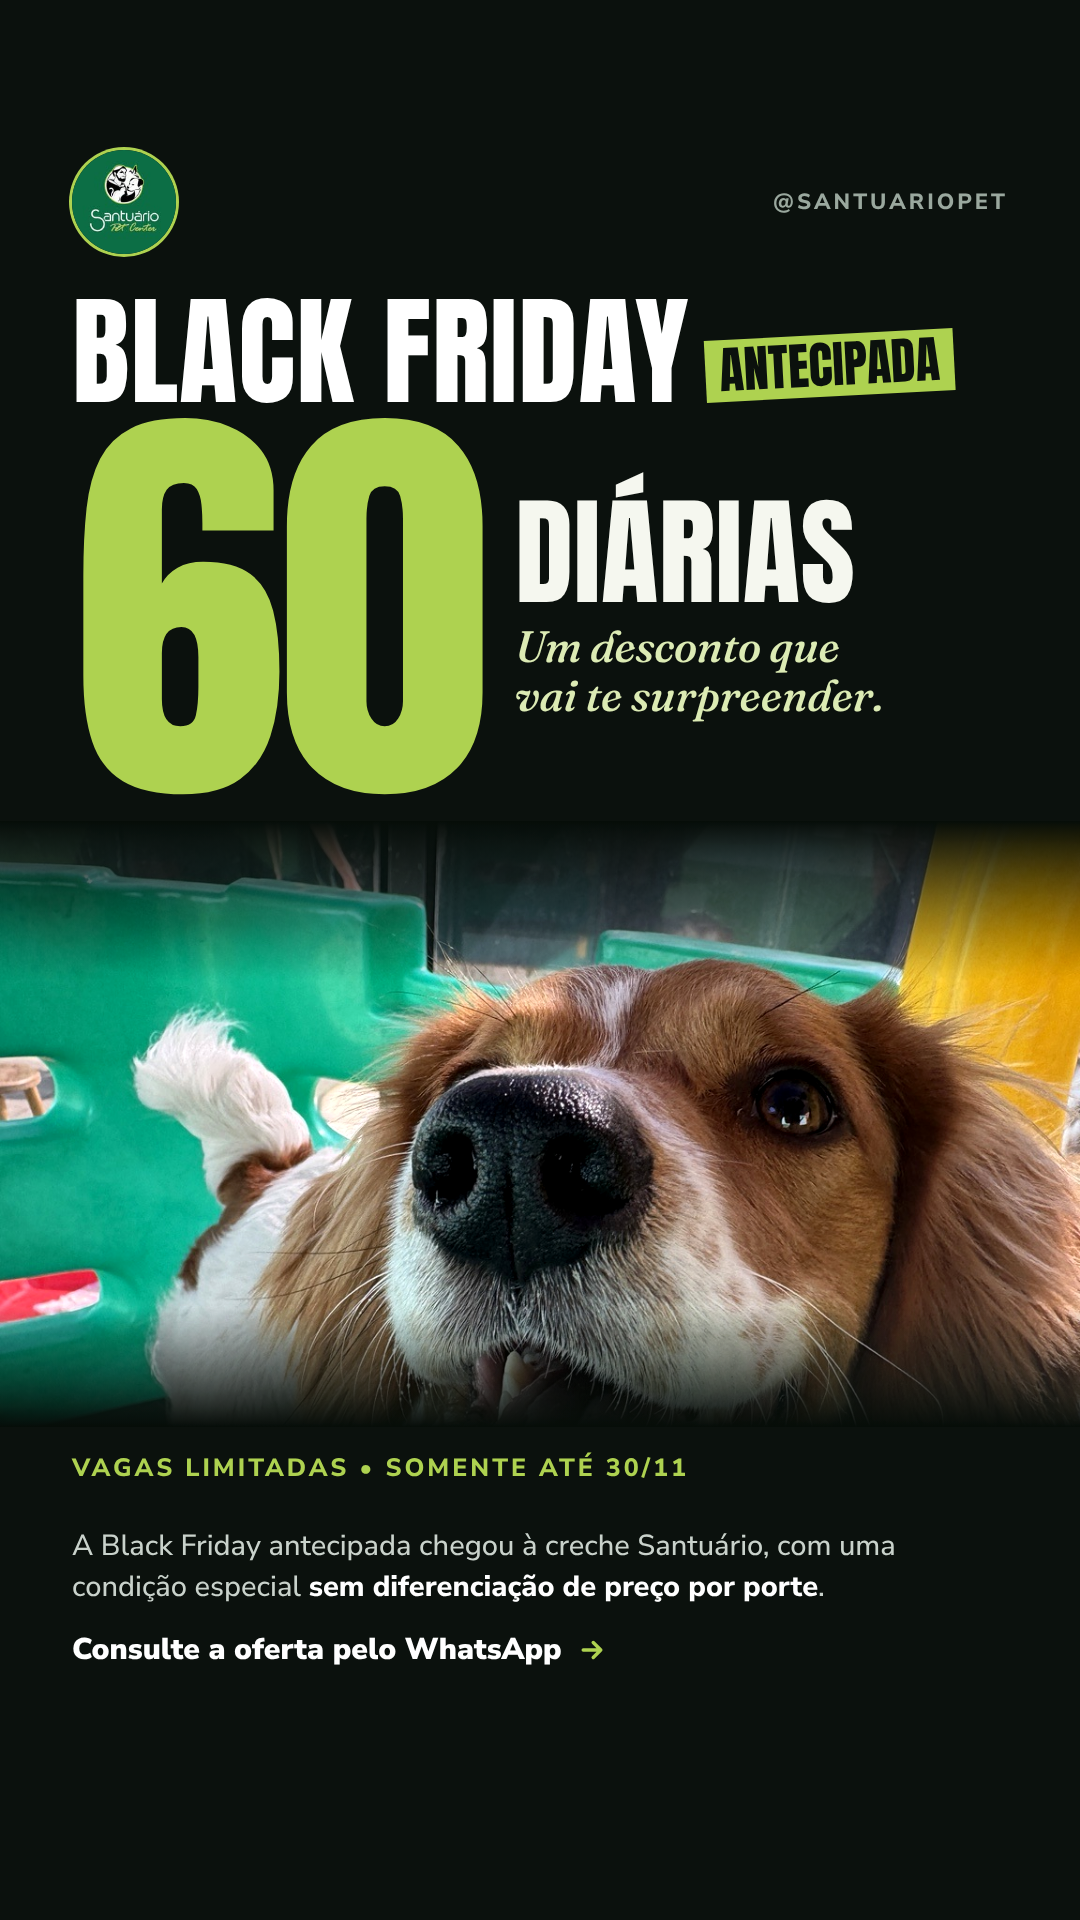
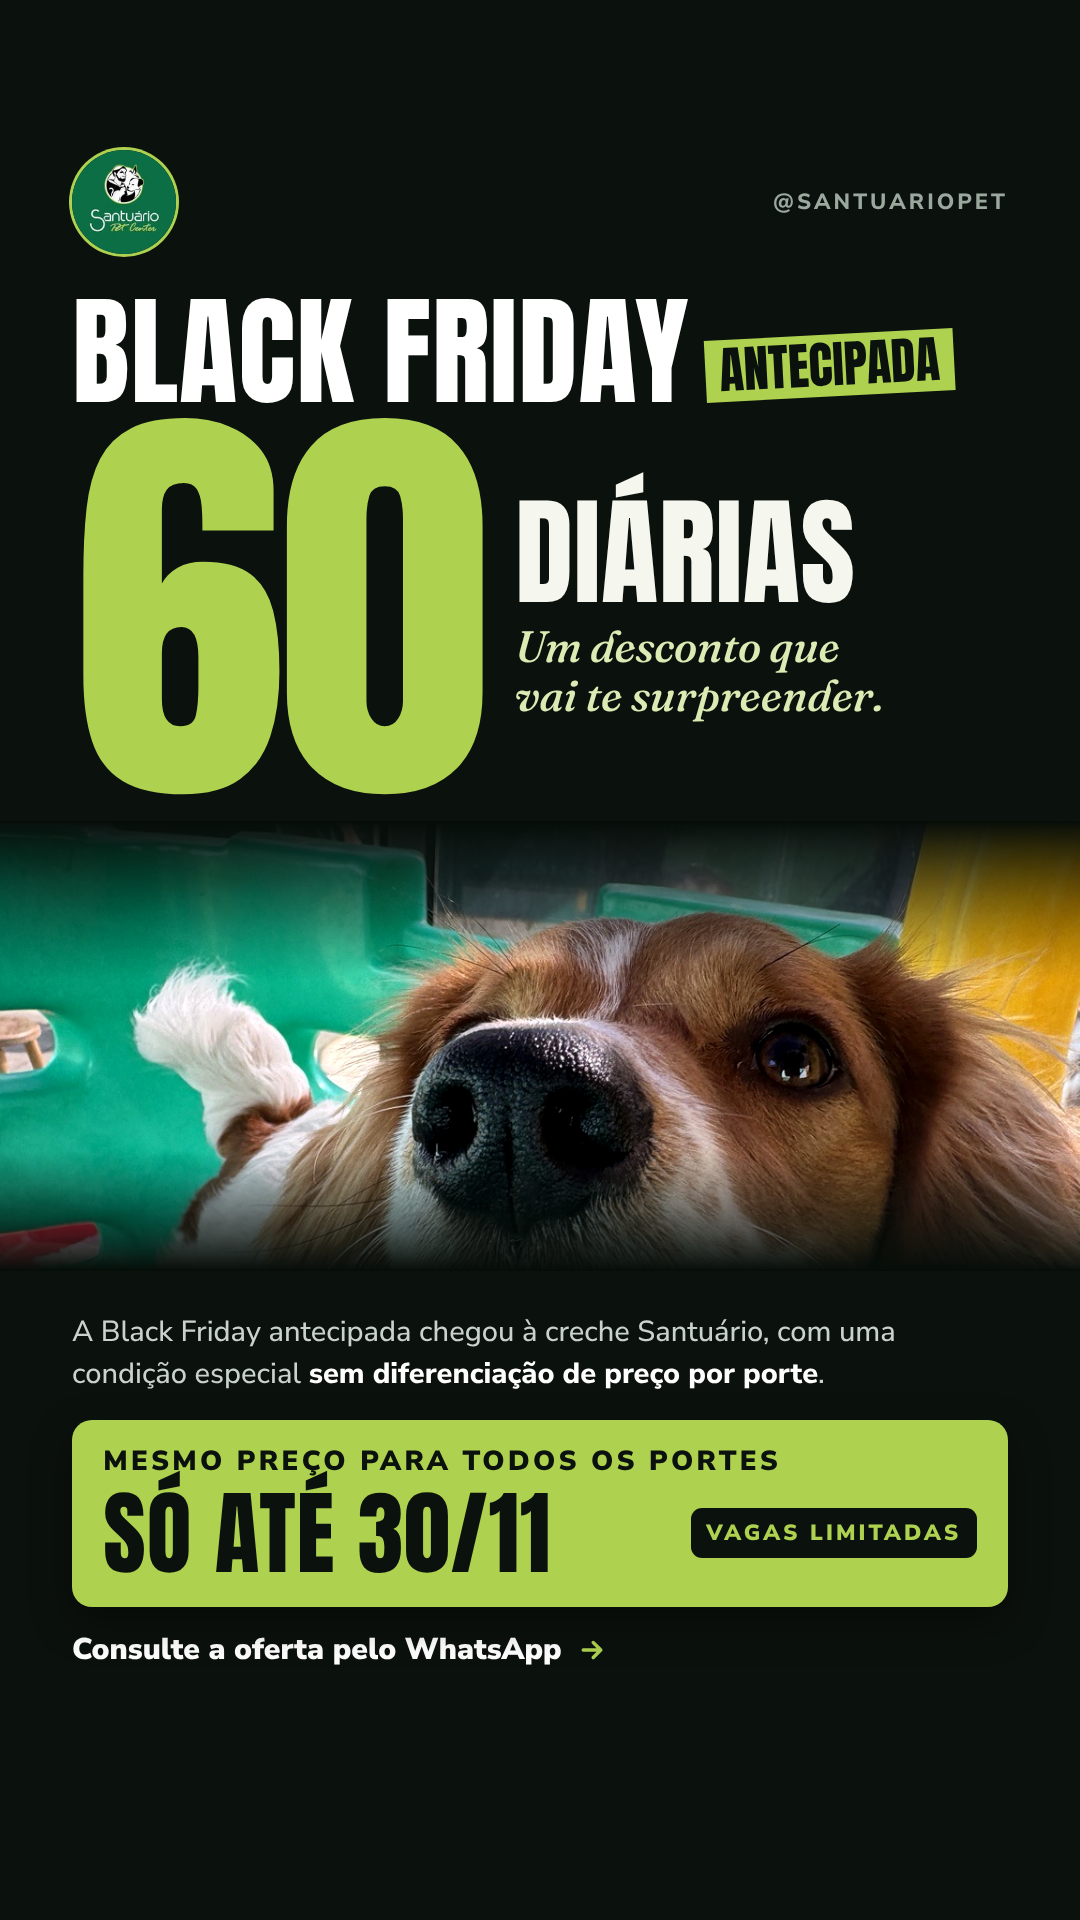
Santuário Pet: ofertas em destaque e copy 4/8/12 banhos
Claude-Session: https://claude.ai/code/session_01Gs9A9MNex2dmEc6dmLnRAu

Changed region(s): [[0.0, 0.4375, 1.0, 0.8438]]

diff --git a/santuario-pet/gerar_black_antecipada.py b/santuario-pet/gerar_black_antecipada.py
@@ -73,6 +73,13 @@ body{width:1080px;overflow:hidden;font-family:'Nunito Sans',sans-serif;-webkit-f
 .cta{display:flex;align-items:center;gap:.5em;font-weight:900;color:#fff}
 .cta svg{color:var(--lime)}
 .end{font-weight:700;color:#8E9C92;letter-spacing:.5px}
+.oferta{background:var(--lime);color:var(--k);border-radius:20px;padding:.26em .34em .3em;position:relative;z-index:6;
+  box-shadow:0 16px 40px rgba(0,0,0,.35)}
+.oferta .k{font-weight:900;font-size:.3em;letter-spacing:.12em;text-transform:uppercase;line-height:1.25}
+.oferta .r{display:flex;align-items:center;justify-content:space-between;gap:.25em;flex-wrap:wrap;margin-top:.1em}
+.oferta .b{font-family:'Anton';text-transform:uppercase;line-height:1;letter-spacing:.01em}
+.oferta .t{background:var(--k);color:var(--lime);font-weight:900;font-size:.24em;letter-spacing:.14em;text-transform:uppercase;
+  padding:.45em .7em;border-radius:.5em;white-space:nowrap}
 .rodl{position:relative;z-index:6;font-weight:800;letter-spacing:3px;text-transform:uppercase;color:var(--lime)}
 .strike{display:inline-block;color:rgba(245,247,239,.42);text-decoration:line-through;text-decoration-color:var(--lime);text-decoration-thickness:.055em}
 """
@@ -94,26 +101,49 @@ def bf(size, mt=0):
             f'<div class="ant" style="font-size:{round(size * .42)}px">Antecipada</div></div>')
 
 
-def tape(txt, size, mt=0, mb=0, rot=0):
-    """Linha de condição: caixa-alta espaçada em verde-limão (padrão do card aprovado)."""
-    mt = max(mt, 0) if mt >= 0 else 24
-    return (f'<div class="rodl" style="font-size:{round(size * .62)}px;margin-top:{mt}px;margin-bottom:{mb}px">'
-            f'{txt}</div>')
+def tape(*a, **k):
+    return ""
 
 
 def ph(nome, pos, extra="", fades=""):
     return f'<div class="foto" style="background-image:url({foto(nome)});background-position:{pos};{extra}">{fades}</div>'
 
 
+CUR = {"nome": ""}
+OFERTAS = {
+    "01-creche-60-diarias": ("Mesmo preço para todos os portes", "Só até 30/11", "Vagas limitadas"),
+    "02-creche-nao-veio-para-brincar": ("60 diárias com condição especial", "Só até 30/11", "Vagas limitadas"),
+    "03-creche-mesmo-preco-especial": ("Plano de 60 diárias", "Contrate até 30/11", "Vagas limitadas"),
+    "04-banho-ele-voltou": ("Plano de 12 banhos · condições especiais", "Só até 30/11", "Black Friday"),
+    "05-banho-12-banhos": ("Condição especial de Black Friday", "Só até 30/11", "12 banhos"),
+    "06-banho-nao-e-1-nao-sao-6": ("Plano de 12 banhos · condições especiais", "Só até 30/11", "Black Friday"),
+    "07-hotel-fim-de-ano-destino": ("Hospedagem com valor de baixa temporada", "Reserve até 30/11", "Vagas limitadas"),
+    "08-hotel-baixa-temporada": ("Hospedagem de fim de ano", "Só até 30/11", "Vagas limitadas"),
+    "09-hotel-viagem-pode-esperar": ("Valor de baixa temporada", "Reserve até 30/11", "Vagas limitadas"),
+}
+
+
+def oferta(size, mt):
+    k, b, t = OFERTAS[CUR["nome"]]
+    return (f'<div class="oferta" style="font-size:{size}px;margin-top:{mt}px"><div class="k">{k}</div>'
+            f'<div class="r"><div class="b">{b}</div><div class="t">{t}</div></div></div>')
+
+
 def cta(txt, size, mt=0):
-    return f'<div class="cta" style="font-size:{size}px;margin-top:{mt}px">{txt} {SETA}</div>'
+    big = 92 if size >= 30 else 64
+    return (oferta(big, max(mt, 26)) +
+            f'<div class="cta" style="font-size:{size}px;margin-top:22px">{txt} {SETA}</div>')
 
 
 SP = "150px 72px 250px"
 FP = "56px 64px 60px"
 
 
-def faixa(txt, bottom, left=64, width=520):
+def faixa(*a, **k):
+    return ""
+
+
+def _faixa_old(txt, bottom, left=64, width=520):
     return f'<div class="rodl" style="position:absolute;left:{left}px;width:{width}px;bottom:{bottom - 40}px;z-index:6;font-size:20px">{txt}</div>'
 
 
@@ -146,8 +176,8 @@ def creche1(f):
 def creche2(f):
     if f == "story":
         return page(1920, f"""{topo(104)}
-  <div class="imp" style="font-size:132px;margin-top:56px;line-height:.95">A <span class="lime">Black Friday</span><br>da creche não<br>veio para</div>
-  <div class="ser it lime" style="font-size:200px;line-height:.95;font-weight:700;margin-top:4px;letter-spacing:-3px">brincar.</div>
+  <div class="imp" style="font-size:112px;margin-top:50px;line-height:.95">A <span class="lime">Black Friday</span><br>da creche não<br>veio para</div>
+  <div class="ser it lime" style="font-size:168px;line-height:.95;font-weight:700;margin-top:4px;letter-spacing:-3px">brincar.</div>
   <div class="ser" style="font-size:42px;font-weight:700;margin-top:26px">60 diárias com uma condição especial.</div>
   {ph('creche-brincando', '50% 52%', 'flex:1;margin:34px -72px 0;min-height:300px', '<div class="fade-t" style="height:140px"></div><div class="fade-b" style="height:120px"></div>')}
   {tape('Oferta até 30/11 • Vagas limitadas', 40, -50)}
@@ -167,15 +197,15 @@ def creche2(f):
 def creche3(f):
     if f == "story":
         return page(1920, f"""{topo(104)}{bf(110, 46)}
-  <div class="ser it" style="font-size:84px;margin-top:44px;color:var(--gl)">Porte diferente.</div>
-  <div class="imp" style="font-size:176px;margin-top:10px">Mesmo preço<br><span class="lime">especial.</span></div>
+  <div class="ser it" style="font-size:68px;margin-top:36px;color:var(--gl)">Porte diferente.</div>
+  <div class="imp" style="font-size:140px;margin-top:8px">Mesmo preço<br><span class="lime">especial.</span></div>
   <div class="row" style="flex:1;gap:36px;margin-top:44px;min-height:300px">
     {ph('creche-grupo', '50% 55%', 'width:540px;border-radius:270px 270px 24px 24px')}
     <div style="flex:1;display:flex;flex-direction:column;justify-content:flex-end">
       <div class="sup" style="font-size:29px">Aproveita a Black Friday antecipada e conhece a condição do plano de <b>60 diárias</b> da creche Santuário.</div>
-      {cta('Fala com a equipe', 30, 26)}
     </div>
   </div>
+  {cta('Fala com a equipe', 30, 36)}
   {tape('Contratações até 30/11 • Vagas limitadas', 38, 46)}""", SP)
     return page(1350, f"""{topo(92)}
   <div class="row" style="flex:1;gap:40px;margin-top:34px">
@@ -241,20 +271,20 @@ def banho2(f):
 def banho3(f):
     if f == "story":
         return page(1920, f"""{topo(104)}{bf(110, 46)}
-  <div class="imp" style="font-size:112px;margin-top:44px;line-height:1.05"><span class="strike">Não é 1.</span><br><span class="strike">Não são 6.</span></div>
+  <div class="imp" style="font-size:88px;margin-top:36px;line-height:1.08"><span class="strike">Não são 4.</span><br><span class="strike">Não são 8.</span></div>
   <div class="row" style="align-items:flex-end;gap:26px;margin-top:22px">
-    <div class="imp" style="font-size:130px;padding-bottom:12px">São</div>
-    <div class="imp lime" style="font-size:380px;line-height:.78;letter-spacing:-10px">12</div>
+    <div class="imp" style="font-size:110px;padding-bottom:10px">São</div>
+    <div class="imp lime" style="font-size:300px;line-height:.78;letter-spacing:-10px">12</div>
   </div>
-  <div class="imp" style="font-size:130px;margin-top:12px">banhos!</div>
-  {ph('banho-golden', '50% 24%', 'flex:1;margin:30px -72px 0;min-height:340px', '<div class="fade-t" style="height:140px"></div><div class="fade-b" style="height:110px"></div>')}
+  <div class="imp" style="font-size:110px;margin-top:12px">banhos!</div>
+  {ph('banho-golden', '50% 30%', 'flex:1;margin:26px -72px 0;min-height:200px', '<div class="fade-t" style="height:140px"></div><div class="fade-b" style="height:110px"></div>')}
   {tape('Somente até 30/11', 40, -50)}
   <div class="sup" style="font-size:29px;margin-top:40px">O plano tão pedido voltou com condições especiais na Black Friday Santuário.</div>
   {cta('Chama no WhatsApp', 30, 22)}""", SP)
     return page(1350, f"""{ph('banho-golden', '50% 45%', 'position:absolute;right:0;top:0;width:420px;height:1350px', '<div class="fade-l" style="width:180px"></div>')}
   <div style="position:relative;z-index:3;width:680px;display:flex;flex-direction:column;height:100%">
     {topo(92)}{bf(80, 30)}
-    <div class="imp" style="font-size:118px;margin-top:40px;line-height:1"><span class="strike">Não é 1.</span><br><span class="strike">Não são 6.</span></div>
+    <div class="imp" style="font-size:118px;margin-top:40px;line-height:1"><span class="strike">Não são 4.</span><br><span class="strike">Não são 8.</span></div>
     <div class="row" style="align-items:flex-end;gap:20px;margin-top:16px">
       <div class="imp" style="font-size:112px;padding-bottom:10px">São</div>
       <div class="imp lime" style="font-size:330px;line-height:.78;letter-spacing:-8px">12</div>
@@ -269,8 +299,8 @@ def banho3(f):
 def hotel1(f):
     if f == "story":
         return page(1920, f"""{topo(104)}{bf(110, 46)}
-  <div class="ser" style="font-size:96px;font-weight:700;line-height:1.02;margin-top:52px;letter-spacing:-1px">Teu fim de ano<br>já tem destino?</div>
-  <div class="ser it lime" style="font-size:70px;font-weight:500;margin-top:16px">O dele também pode ter.</div>
+  <div class="ser" style="font-size:80px;font-weight:700;line-height:1.04;margin-top:44px;letter-spacing:-1px">Teu fim de ano<br>já tem destino?</div>
+  <div class="ser it lime" style="font-size:58px;font-weight:500;margin-top:16px">O dele também pode ter.</div>
   {ph('hotel-descanso', '50% 62%', 'flex:1;margin:44px -72px 0;min-height:300px', '<div class="fade-t" style="height:150px"></div><div class="fade-b" style="height:120px"></div>')}
   {tape('Reserve até 30/11 • Vagas limitadas', 40, -50)}
   <div class="sup" style="font-size:29px;margin-top:40px">Garante a hospedagem do teu pet para o fim de ano com valor de <b>baixa temporada</b>.</div>
@@ -318,10 +348,10 @@ def hotel2(f):
 def hotel3(f):
     if f == "story":
         return page(1920, f"""{topo(104)}{bf(110, 46)}
-  <div class="imp" style="font-size:138px;margin-top:46px">Tua viagem<br>pode esperar.</div>
+  <div class="imp" style="font-size:116px;margin-top:40px">Tua viagem<br>pode esperar.</div>
   {ph('hotel-pastor', '50% 32%', 'flex:1;margin-top:40px;border-radius:26px;min-height:300px')}
   {tape('Vagas limitadas • Hotel Pet Santuário', 38, -40)}
-  <div class="ser it lime" style="font-size:76px;font-weight:700;line-height:1.04;margin-top:40px">A reserva dele,<br>melhor não.</div>
+  <div class="ser it lime" style="font-size:64px;font-weight:700;line-height:1.04;margin-top:34px">A reserva dele,<br>melhor não.</div>
   <div class="sup" style="font-size:28px;margin-top:18px">Planeja a hospedagem de fim de ano e aproveita o valor de <b>baixa temporada</b> para reservas realizadas até 30/11.</div>
   {cta('Garanta a vaga pelo WhatsApp', 30, 20)}
   <div class="end" style="font-size:21px;margin-top:12px">{HOTEL}</div>""", SP)
@@ -335,7 +365,7 @@ def hotel3(f):
       <div class="end" style="font-size:18px;margin-top:10px">{HOTEL}</div>
     </div>
     {ph('hotel-pastor', '50% 35%', 'width:400px;border-radius:24px')}
-  </div>{faixa('Vagas limitadas • Hotel Pet Santuário', 210, 64, 540).replace('font-size:20px','font-size:17px')}""", FP)
+  </div>""", FP)
 
 
 PECAS = [("01-creche-60-diarias", creche1), ("02-creche-nao-veio-para-brincar", creche2),
@@ -353,6 +383,7 @@ def main():
             jobs = []
             for nome, fn in PECAS:
                 src = pathlib.Path(tmp) / f"{fmt}-{nome}.html"
+                CUR["nome"] = nome
                 src.write_text(fn("story" if fmt == "stories" else "feed"), encoding="utf-8")
                 jobs.append(f"{src}|{d / (nome + '.png')}")
             subprocess.run(["node", str(RENDER), *jobs], check=True, env={**os.environ, "H": str(h)},
